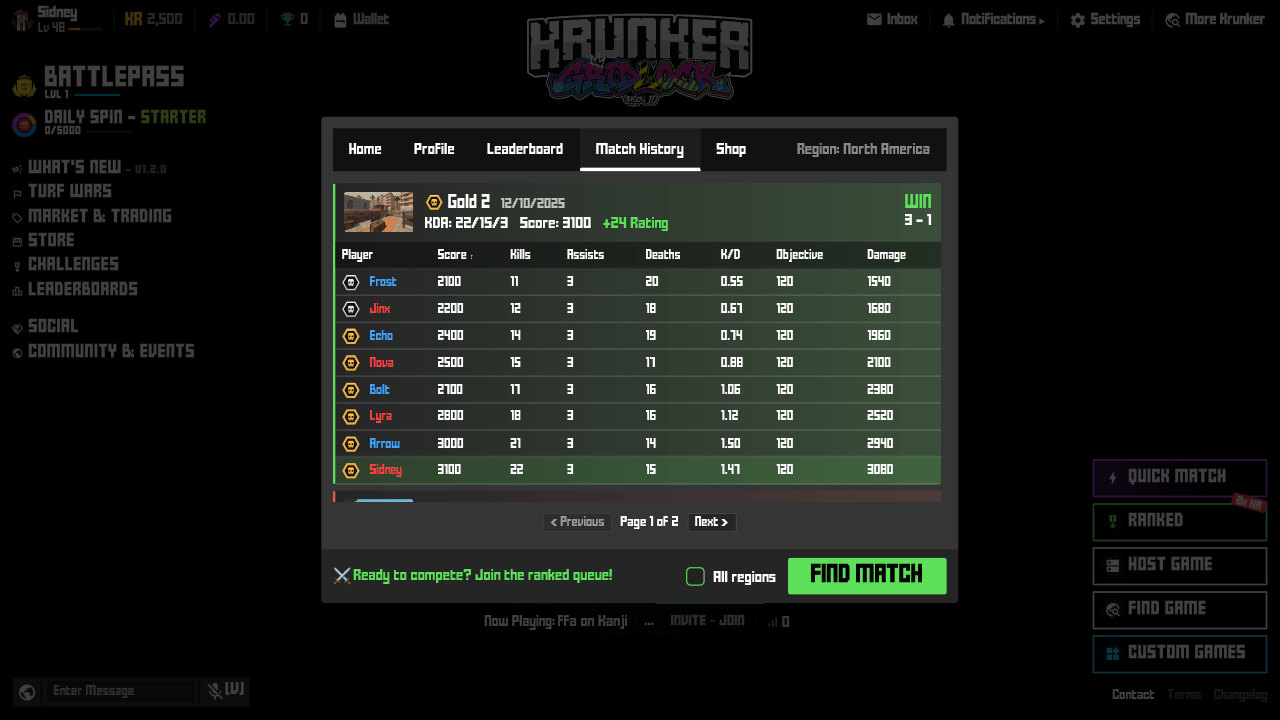
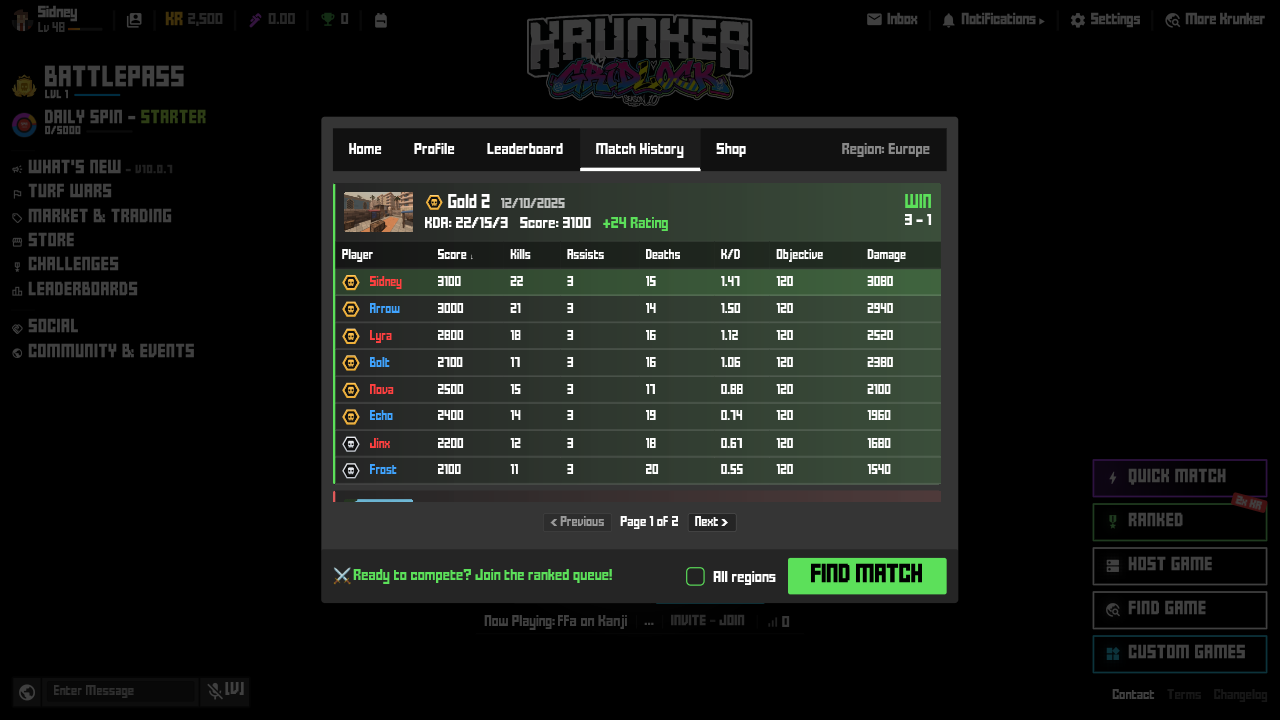
uidiff: root-cause the devbox's structural failures (servers gap, animation start, TZ, stale refs)
kn-servers-official top-groups 15.36 -> 2.71 %, region-groups 6.58 -> 2.19 %: the
region began inside KN's krunk.io / krunker.io tab strip (re-fitted below it), and the
empty #kioStatus line (div.kioSep, margins 24 / -8) collapsed the 30 px under the tab
strip to 22 px, so the list jumped 8 px between the tabs; v10's tab strips keep 30 px
(genList: bigMenTabs 30, setHed 20). div.kioSep:empty takes no room now; the -open and
carousel offsets follow, kn-servers-official-mixed is re-rendered.

seq-end-collect-button@500 collect 13.65 -> 1.73 %: a style flush between frames
created CSS animations at the previous frame's clock, one frame ahead of Chrome. With
AnimSystem.defer_starts (the engine sets it) a new animation is play-pending and starts
at the next frame that paints it (anim_start_pending), as in Web Animations. Other
sequence timings unchanged; test_anim.c covers it.

kn-tip-spin cost 2.00 -> 0.00 %: the references were captured in US Eastern, so
ui_scenario_begin pins TZ to EST5EDT and a UTC host renders the same local dates.

kn-ranked-sort rs-arrow 0.91 -> 0.00 %: the KN baseline predated 2eef54563 (descending
by default, deob-10.0.7.js:110388-110414), re-rendered. ranked-shop-flying 6.17 -> 0.00 %:
the composite's background still showed Region: North America; re-composed (same layer
over the old background: 0 px), cdp.js falls back to Node's WebSocket without ws.

Full devbox run (4 shards): 759 / 92 / 91 at HEAD -> 763 / 88 / 91 passed / failed /
[…]

diff --git a/tools/kref/cdp.js b/tools/kref/cdp.js
@@ -1,6 +1,29 @@
-// Minimal CDP client over `ws` (from KrunkNative/net-bridge/node_modules).
+// Minimal CDP client over `ws` (from KrunkNative/net-bridge/node_modules), or over Node's own
+// WebSocket (Node >= 22) where no `ws` package is installed.
 'use strict';
-const WebSocket = require('/home/user/src/KrunkNative/net-bridge/node_modules/ws');
+const path = require('path');
+
+// Node's built-in WebSocket behind the small part of the `ws` API used here (on open / message / error)
+class NodeWebSocket {
+  constructor(url) {
+    this.sock = new globalThis.WebSocket(url);
+    this.sock.binaryType = 'arraybuffer';
+  }
+  on(event, fn) {
+    this.sock.addEventListener(event, (e) => fn(event === 'message' ? Buffer.from(typeof e.data === 'string' ? e.data : new Uint8Array(e.data)) : e));
+  }
+  send(data) { this.sock.send(data); }
+  close() { this.sock.close(); }
+}
+
+function loadWs() {
+  for (const p of [path.join(__dirname, '..', '..', 'net-bridge', 'node_modules', 'ws'), '/home/user/src/KrunkNative/net-bridge/node_modules/ws', 'ws']) {
+    try { return require(p); } catch (e) { }
+  }
+  if (typeof globalThis.WebSocket === 'function') return NodeWebSocket;
+  throw new Error('cdp.js: no WebSocket: run npm install in net-bridge/, or use Node >= 22');
+}
+const WebSocket = loadWs();
 const http = require('http');
 const fs = require('fs');
 

diff --git a/ui/css/krunknative.css b/ui/css/krunknative.css
@@ -856,6 +856,12 @@ html.kn-bare-window #instructions {
   font-size: 18px;
   color: rgba(255, 255, 255, 0.6);
 }
+/* Empty (the lobbies are listed), the line takes no room: its margins would collapse with the
+ * first group's 20px and the tab strip's 30px to 22px (30 - 8), where v10's tab strips keep 30px
+ * before the first group (genList: bigMenTabs margin-bottom 30px, then setHed margin-top 20px). */
+#menuWindow.dark div.kioSep:empty {
+  margin: 0;
+}
 #menuWindow.dark div.kioSepWhy {
   color: rgba(255, 255, 255, 0.6);
 }

diff --git a/client/src/html/engine/anim.c b/client/src/html/engine/anim.c
@@ -1555,6 +1555,7 @@ enum { PHASE_BEFORE = 0, PHASE_ACTIVE, PHASE_AFTER, PHASE_NONE = 255 };
 typedef struct AnimRunning {
     const char *name;          /* atom                                        */
     double created_ms;         /* when the name appeared on the element       */
+    uint8_t pending;           /* play-pending: starts at the next frame      */
     float delay_s, duration_s, iterations;
     CssTiming timing;
     uint8_t direction, fill, play_state;
@@ -1719,13 +1720,17 @@ static void elem_destroy(AnimSystem *sys, uint32_t idx)
 /* Animation sampling                                                         */
 /* ------------------------------------------------------------------------- */
 
-static double running_start_ms(const AnimRunning *r) { return r->created_ms + sec_to_ms(r->delay_s); }
+/* A play-pending animation (created since the last frame, see anim_start_pending) samples as if it
+ * started now: local time 0, its delay still ahead. */
+static double running_created_ms(const AnimRunning *r, double now_ms) { return r->pending ? now_ms : r->created_ms; }
+
+static double running_start_ms(const AnimRunning *r, double now_ms) { return running_created_ms(r, now_ms) + sec_to_ms(r->delay_s); }
 
 static double running_local_s(const AnimRunning *r, double now_ms)
 {
     if (r->play_state == CSS_ANIM_PLAY_PAUSED)
         return r->pause_local_s;
-    return (now_ms - running_start_ms(r)) / 1000.0;
+    return (now_ms - running_start_ms(r, now_ms)) / 1000.0;
 }
 
 static double running_active_s(const AnimRunning *r)
@@ -2099,11 +2104,12 @@ void anim_free(AnimSystem *sys)
     memset(sys, 0, sizeof *sys);
 }
 
-static void running_init(AnimRunning *r, const CssAnimation *a, double now_ms)
+static void running_init(const AnimSystem *sys, AnimRunning *r, const CssAnimation *a, double now_ms)
 {
     memset(r, 0, sizeof *r);
     r->name = a->name;
     r->created_ms = now_ms;
+    r->pending = sys->defer_starts; /* anim_start_pending: the next frame's time is its start time */
     r->last_phase = PHASE_NONE;
     r->last_step = -1;
 }
@@ -2115,6 +2121,7 @@ static void running_sync(AnimRunning *r, const CssAnimation *a, double now_ms)
     } else if (a->play_state != CSS_ANIM_PLAY_PAUSED && r->play_state == CSS_ANIM_PLAY_PAUSED) {
         /* resume: shift so local time continues from the paused value */
         r->created_ms = now_ms - r->pause_local_s * 1000.0 - sec_to_ms(a->delay_s);
+        r->pending = 0;
     }
     r->play_state = a->play_state;
     r->delay_s = a->delay_s;
@@ -2153,7 +2160,7 @@ int anim_update_elem(AnimSystem *sys, HtmlElem elem, const CssComputed *base, do
         AnimRunning *slot = &rec->anims[n];
         if (n >= rec->anim_count || slot->name != a->name) {
             if (n < rec->anim_count && running_has_custom(sys, slot)) custom_changed = 1;
-            running_init(slot, a, now_ms);
+            running_init(sys, slot, a, now_ms);
             if (running_has_custom(sys, slot)) custom_changed = 1;
         }
         running_sync(slot, a, now_ms);
@@ -2313,8 +2320,22 @@ const CssComputed *anim_apply(AnimSystem *sys, HtmlElem elem, const CssComputed 
     return changed ? out : base;
 }
 
+void anim_start_pending(AnimSystem *sys, double now_ms)
+{
+    for (uint32_t ei = 0; ei < sys->elem_count; ei++) {
+        AnimElem *rec = sys->elems[ei];
+        for (uint8_t i = 0; i < rec->anim_count; i++) {
+            AnimRunning *r = &rec->anims[i];
+            if (!r->pending) continue;
+            r->pending = 0;
+            r->created_ms = now_ms;
+        }
+    }
+}
+
 void anim_tick(AnimSystem *sys, double now_ms)
 {
+    anim_start_pending(sys, now_ms);
     for (uint32_t ei = 0; ei < sys->elem_count; ei++) {
         AnimElem *rec = sys->elems[ei];
         unsigned flags = 0;
@@ -2374,7 +2395,7 @@ double anim_next_wakeup(const AnimSystem *sys, double now_ms)
             const AnimKeyframeSet *set = anim_keyframes_find(sys, r->name);
             if (!set_animates(set) || r->play_state == CSS_ANIM_PLAY_PAUSED)
                 continue;
-            double start = running_start_ms(r);
+            double start = running_start_ms(r, now_ms);
             if (now_ms < start) {
                 if (start < best) best = start;
                 continue;
@@ -2424,6 +2445,7 @@ void anim_seek(AnimSystem *sys, double now_ms, double current_ms)
                 r->pause_local_s = local;
             else
                 r->created_ms = now_ms - local * 1000.0 - sec_to_ms(r->delay_s);
+            r->pending = 0;
             r->last_phase = PHASE_NONE; /* the next tick reports the element */
             r->last_step = -1;
         }

diff --git a/client/src/html/engine/tests/test_anim.c b/client/src/html/engine/tests/test_anim.c
@@ -730,6 +730,31 @@ static int sample(HtmlElem e, const CssComputed *base, CssComputed *out, double 
     return *res != base;
 }
 
+/* defer_starts (the engine): an animation a style change creates between frames
+ * is play-pending, local time 0 until anim_start_pending gives it the next
+ * frame's time as its start (Chrome: currentTime 0 in the first painted frame). */
+static void test_deferred_start(void)
+{
+    CssComputed base, out;
+    const CssComputed *r;
+    base_init(&base);
+    base.font_size = 32.0f;
+    base.animations[0] = anim_decl("grow", 0.8f, 0, INFINITY, timing_kind(CSS_TIMING_EASE), CSS_ANIM_DIRECTION_ALTERNATE, CSS_ANIM_FILL_NONE);
+    base.animation_count = 1;
+    HtmlElem e = 12;
+    const double t0 = 9000.0;
+    g_sys.defer_starts = 1;
+    CHECK(anim_update_elem(&g_sys, e, &base, t0) == 1);   /* a style read between frames */
+    CHECK(sample(e, &base, &out, t0 + 17, &r));            /* the next frame, still pending: local 0 */
+    CHECK_NEAR(r->opacity, 0.3, 1e-6);
+    anim_start_pending(&g_sys, t0 + 17);                   /* that frame starts it */
+    CHECK(anim_update_elem(&g_sys, e, &base, t0 + 34) == 1);  /* a restyle keeps the start */
+    CHECK(sample(e, &base, &out, t0 + 17 + 400, &r));
+    CHECK_NEAR(r->opacity, 0.3 + 0.7 * ref_ease(0.5), 1e-4);
+    anim_remove_elem(&g_sys, e);
+    g_sys.defer_starts = 0;
+}
+
 /* zoom: keyframe lengths (unzoomed) scale with the element's zoom; lists of
  * box-shadows interpolate pairwise, padding with transparent shadows. */
 static void test_zoom_and_shadow_lists(void)
@@ -2364,6 +2389,7 @@ int main(int argc, char **argv)
     CHECK(anim_keyframes_find(&g_sys, kn_atom_cstr("sprayAnm")) == NULL);
 
     test_grow();
+    test_deferred_start();
     test_zoom_and_shadow_lists();
     test_scale_bob();
     test_lds_ring();

diff --git a/client/src/html/engine/anim.h b/client/src/html/engine/anim.h
@@ -361,6 +361,10 @@ struct AnimSystem {
 
     AnimDirtyFn dirty_fn;
     void *dirty_user;
+
+    /* 1: a new CSS animation is play-pending until anim_start_pending (the
+     * engine's frames); 0 (anim_init): it starts at its anim_update_elem time */
+    uint8_t defer_starts;
 };
 
 void anim_init(AnimSystem *sys, AnimDirtyFn dirty_fn, void *dirty_user);
@@ -377,8 +381,18 @@ const CssComputed *anim_apply(AnimSystem *sys, HtmlElem elem, const CssComputed 
                               CssComputed *out, double now_ms);
 
 /* Advances time: reports every element whose output changed since the last
- * tick through the dirty callback and drops finished transitions. */
+ * tick through the dirty callback and drops finished transitions.  Starts the
+ * play-pending animations first (anim_start_pending). */
 void anim_tick(AnimSystem *sys, double now_ms);
+
+/* With defer_starts, a CSS animation is play-pending from the style change that
+ * creates it until the next frame, whose time becomes its start time (Web
+ * Animations: the ready time is the timeline time of the next animation frame),
+ * so it shows local time 0 in the first frame that paints it, also when a
+ * script's style read created it between frames (at the last frame's clock).
+ * The engine calls this with the frame's time once the frame's styles are
+ * resolved (and anim_tick does first). */
+void anim_start_pending(AnimSystem *sys, double now_ms);
 
 /* 1 when some animation or transition will still change its output. */
 int    anim_has_active(const AnimSystem *sys, double now_ms);

diff --git a/client/src/ui/ui_scenario.c b/client/src/ui/ui_scenario.c
@@ -84,6 +84,7 @@
 #include <stdlib.h>
 #include <string.h>
 #include <strings.h>
+#include <time.h> // tzset: the references' time zone
 #include <sys/stat.h>
 #include <unistd.h>
 #ifdef _WIN32
@@ -431,6 +432,17 @@ int ui_scenario_begin(const char *scenario_path, const char *out_png) {
     }
     g_sc.frames = (int) obj_num(g_sc.root, "frames", 3);
     if (g_sc.frames < 1) g_sc.frames = 1;
+
+    // Local dates (Spin History's date range, Match History's day, the clock) in the references' zone:
+    // the references were captured on a machine in US Eastern time (kn-tip-spin's "Sat Sep 08 2001" is
+    // 1e12 ms = 2001-09-09 01:46:40 UTC there), so a scenario renders the same text on a UTC host.
+#ifdef _WIN32
+    scenario_setenv("TZ", "EST5EDT");
+    _tzset();
+#else
+    scenario_setenv("TZ", "EST5EDT,M3.2.0,M11.1.0");
+    tzset();
+#endif
 
     // optional top-level "flavor" ("base" / "strike"): render that product flavor's page (Krunker
     // Strike: FRVR's ui/strike/index.html, strike_ui.c). Absent = the process flavor. Set before the

diff --git a/client/src/html/engine/engine.c b/client/src/html/engine/engine.c
@@ -2257,6 +2257,7 @@ static Engine *engine_create(const char *ui_dir, const char *page, const int wid
         goto fail;
     }
     anim_init(&g->anim, anim_dirty_cb, g);
+    g->anim.defer_starts = 1; /* animations start at the frame that first paints them (anim_start_pending) */
     if (g->ua) register_keyframes(g, g->ua);
     for (int i = 0; i < g->n_sheets; i++) {
         register_font_faces(g, g->sheets[i]);
@@ -2638,6 +2639,9 @@ void html_ui_backend_render(UI *ui, const int layers)
     engine_flush_layout(g);
     run_after_layout(g);
     engine_flush_layout(g); /* observers may have mutated the page */
+    /* this frame's time starts the animations its styles created, and those a style read created
+     * between frames at the last frame's clock: both show local time 0 now, as in Chrome */
+    anim_start_pending(&g->anim, engine_now_ms());
     sel_autoscroll(g);
 
     const int overlay_open = g->widgets && widgets_popup_owner(g->widgets);

diff --git a/tools/uidiff/README.md b/tools/uidiff/README.md
@@ -46,12 +46,15 @@ Sans first made Debian hosts lay Helvetica / Arial text out wider). On the Debia
 LLVM 19.1.7) on 2026-11-22, solid fills and text are pixel-identical to the desktop's own captures
 (`kn-servers-official-mixed`: 2552 differing pixels of 921600 with no fuzz), yet 93 of 942 regions fail:
 83 of them pass with 4 to 8 points more fuzz (small colour differences in blended and scaled images,
-e.g. `game-updating` credit: 124 pixels at fuzz 6, none at 8). The rest are edges of 3D thumbnails and
-character previews (Strike item / class selection, `seq-end-collect-button`) and a few layouts
-(`kn-servers-official` top-groups, `menu-host-type`, `kn-ranked-sort` rs-arrow, `kn-tip-spin` cost,
-`ranked-shop-flying`). The likeliest cause is the llvmpipe version (the desktop's was not recorded).
+e.g. `game-updating` credit: 124 pixels at fuzz 6, none at 8). The likeliest cause is the llvmpipe
+version (the desktop's was not recorded). The structural failures of that run were root-caused on
+2026-11-23 (see "Failing-region triage (2026-11-23)" below); after those fixes the devbox, run as four
+shards, gives 763 passed, 88 failed, 91 skipped (HEAD before them: 759 / 92 / 91 in the same run).
 Compare a run on another machine with this baseline, not with zero failures, before treating a
 colour-only failure as a regression.
+
+Renders are time-zone independent: `ui_scenario_begin` sets `TZ` to US Eastern (`EST5EDT`), the zone
+the references were captured in, so local dates (the tip popup's "Sat Sep 08 2001") match on a UTC host.
 
 ## Pipeline
 
@@ -422,6 +425,8 @@ pixel follows an intended change; pixels that differed for any other reason keep
 |---|---|---|
 | `kn-guest-earned-end`, `kn-guest-earned-menu`, `kn-lb-grid`, `kn-main-menu-connect`, `kn-menu-official-guest`, `kn-menu-official-header`, `kn-ranked-error`, `kn-ranked-found` | 2026-10-25 | `menu_scale_base` now writes #uiBase's CSS width/height exactly as v10's `scaleBase` (`deob-10.0.3.js:241726-241731`) instead of rounding them up to whole CSS px, so right-anchored and centred content moves ~1 CSS px (0.6 device px) onto v10's positions. Only those subpixel shifts changed, checked side by side (`main-menu` action-cards 16.68 -> 0.63 %, logo 8.46 -> 2.14 %, both market popups -> 0.35 %). `kn-v10-menu.css` gives #instructionHolder a 1px transparent right border so its shade still covers the last device pixel, as Chrome's does (`menu_bleed_e2e`). |
 | `kn-om-*` (10), `kn-om-tools-short` | 2026-10-15 (uidiff-red) | 1f32a8bc made the window a flex column and 422e6a02 wraps tile, tool and gun names; krunknative.css `.knOmMain` then lets the whole Tools pane set the row's height (a 3-tile search showed one tool). Only the window's box (x 290-990, y 140-580) is new; the chat behind it keeps the old pixels. Region rects follow the new boxes (`KRUNKNATIVE_SCENARIO_DUMP='#menuWindow'`). `kn-om-weapons` / `kn-om-search` are rendered with engine-replaced-pct (a percentage-width `<img>` adds only its border and padding to min-content, as in Chrome), which narrows the weapon icons. `kn-om-tools-short` is now 1920x600 with UI Scaling off (with scaling on the pane always fits) and has regions. |
+| `kn-ranked-sort` | 2026-11-23 | The baseline (a956c0fc3, 2026-10-15) predates 2eef54563, which made the ranked leaderboard sort descending as v10 does: `sortColumn` starts at score / ascending and is toggled once on open (`deob-10.0.7.js:110388-110394`, 110414), so the header shows U+2193 (110432; v10.0.2 `game.js` 108074 / 108099 / 108115 is the same). Only the arrow and the row order changed. |
+| `kn-servers-official-mixed` | 2026-11-23 | The empty `#kioStatus` line no longer collapses the gap under the tab strip to 22 px (see the 2026-11-23 triage); only the lobby list moved, 8 CSS px down. |
 | `v10-market/browse`, `v10-market/inventory` | 2026-10-15 (uidiff-red) | the `.market-grid` box only: 4260815e (`all: unset` drops the Buy button's UA border) and 1657aa83 (`aspect-ratio: 1` on `.market-card-shell`), bisected. The left strip (the v10 menu column behind the popup, ~0.37 %) stays as it was in all eleven market baselines. |
 
 ### Paint pages (`make uidiff-paint`)
@@ -497,3 +502,67 @@ and the note says which.
   1 Year Cape instead, to keep an Owned card in the capture.
 - **Not individually root-caused here**: `ranked-shop-flying`, `ingame-endscreen-collect-raid`, `kn-ranked-sort`, `kn-servers-official-error`
   and `kn-servers-official-mixed`, and the `strike/*` scenarios (the Strike flavour, not v10 parity).
+  All of them are covered by the 2026-11-23 triage below.
+
+### Failing-region triage (2026-11-23)
+
+The structural (not fuzz-only) failures of the 2026-11-22 devbox run. Before -> after, devbox llvmpipe.
+
+**Fixed**
+- **`kn-servers-official` top-groups** (15.36 -> 2.71 %) and **region-groups** (6.58 -> 2.19 %): two
+  causes. The region was wrong: its rect began at y 227, inside KN's krunk.io / krunker.io tab strip
+  (which ends at 240), and compared the strip's bottom with v10's window header. It now starts at 250
+  (offset -16); window-header and footer were re-fitted the same way. The render was wrong too: the
+  status line under the tab strip (`#kioStatus`, `div.kioSep` with margins 24 / -8) is empty when the
+  lobbies are listed, so its margins collapsed through it with the strip's 30 px and the first group's
+  20 px to 22 px, where v10's tab strips keep 30 px before the first group (`genList`: `bigMenTabs`
+  margin-bottom 30, then `setHed` margin-top 20). The lobby list jumped 8 CSS px between the krunk.io
+  and krunker.io tabs (first group at local y 978.6 vs 986.6). krunknative.css `div.kioSep:empty`
+  now takes no room; `kn-servers-official-mixed` was re-rendered for it, and
+  `kn-servers-official-open` / `kn-servers-carousel` had their offsets re-fitted (the window is 8 CSS px
+  taller, so it is centred 2 device px higher and the list moves 4.8 device px down).
+- **`kn-ranked-sort` rs-arrow** (0.91 -> 0.00 %): a stale KN baseline showing the old ascending sort;
+  re-rendered (table above).
+- **`kn-tip-spin` cost** (2.00 -> 0.00 %): time zone. The reference says "Sat Sep 08 2001" (1e12 ms is
+  2001-09-09 01:46:40 UTC, the evening before in US Eastern, where it was captured); the UTC devbox
+  rendered "Sun Sep 09 2001". `ui_scenario_begin` pins `TZ` to `EST5EDT`.
+- **`ranked-shop-flying` flying-number** (6.17 -> 0.00 %): the reference is a composite (KN's
+  ranked-shop render as the background, Chromium drawing v10.0.7's flying-number layer over it), and
+  its background still read "Region: North America" from before 2eef54563 made Europe the default.
+  Re-composed with `KN_CHROME=chromium node tools/uidiff/capture-v10-menu-idle.js --state flying
+  --capture <dir> --public ~/jails/kru/src/Krunker_v10.0.7/live --bg <ranked-shop render> --x 896.981
+  --y 183.712 --text -500 --t 817`, where `<dir>` holds the live 10.0.7 `index.html` and a
+  `states/main-menu.html` of `<div id="uiBase"></div>`. Check: the same capture over a North America
+  background reproduces the old reference with 0 differing pixels in the region. `tools/kref/cdp.js`
+  falls back to Node's built-in WebSocket when the `ws` module is not installed.
+- **`seq-end-collect-button@500` collect** (13.65 -> 1.73 %, pulse timing still 0.0 ms): CSS
+  animations started one frame early. A style flush between frames (an observer, a timer) created
+  the running animation with the previous frame's clock, so the frame after it was already 16.7 ms
+  in; KN's frame at 483 ms matched the 500 ms reference. As in the Web Animations model, a new
+  animation is now play-pending (`AnimSystem.defer_starts`, set by the engine) and its start time is
+  the time of the next frame that paints it (`anim_start_pending`, called from `html_ui_backend_render` after
+  layout and at the start of `anim_tick`). The other sequences' timings are unchanged (death 0.9,
+  kill 0.2, hit 0.0, end-vic 1.8, end-results 13.4, grow 0.8, curtain 0.0, flip 0.0 ms).
+
+**Passing on the devbox, nothing to fix**: `ingame-endscreen-collect-raid` (3 of 3 runs),
+`kn-servers-official-error` (0.000 %) and `kn-servers-official-mixed` (0.003 % before its re-render).
+
+**Environment, not KN**
+- **Strike `item-selection` / `class-selection`**: the weapon thumbnails are PNG previews
+  (`assets/textures/previews/weapons/*.png`, `image-rendering: pixelated`), not 3D. Regenerating the
+  Chrome reference on the devbox with `static_ref.py` gives the committed reference exactly (items-row
+  0.000 %), while KN's render is 8.3 % off; forcing smooth sampling does not help (8.2 %), and the same
+  code passed at 2.4 % on the desktop (4b03e2be). The difference is KN's GL image sampling on this
+  llvmpipe.
+
+**Still open**
+- **Server browser sub-pixel placement** (`kn-servers-official-open` new-york-header 2.92 -> 5.04 %,
+  other-groups 2.21 -> 3.21 %, both now failing; `kn-servers-carousel` and the open footer / header were
+  failing before): KN's window is 33.6 device px taller than v10's (the tab strip), so its lobby list sits
+  at a different fractional device-px phase and no integer `ref_offset` lines the anti-aliased text up.
+  The 8 CSS px (4.8 device px) gap fix moved the phase: the header moves by exactly 2 px (0.000 % at
+  dy +2 against the old render) but the rows by about 2.6 px (1.39 % at the best integer shift), and
+  the best integer offsets give 3.9 % for new-york-header. Even with v10-identical markup (no tab strip)
+  KN paints the translated `#menuWindow` 0.28 px higher (top edge 175.02 vs Chrome's 175.30) and the
+  rows 0.45 px higher (239.84 vs 240.29), which points at the translate / scroller snapping in
+  `paint.c` (`scroller_layer_snap`, `snap_rect`) and is not fixed here.
